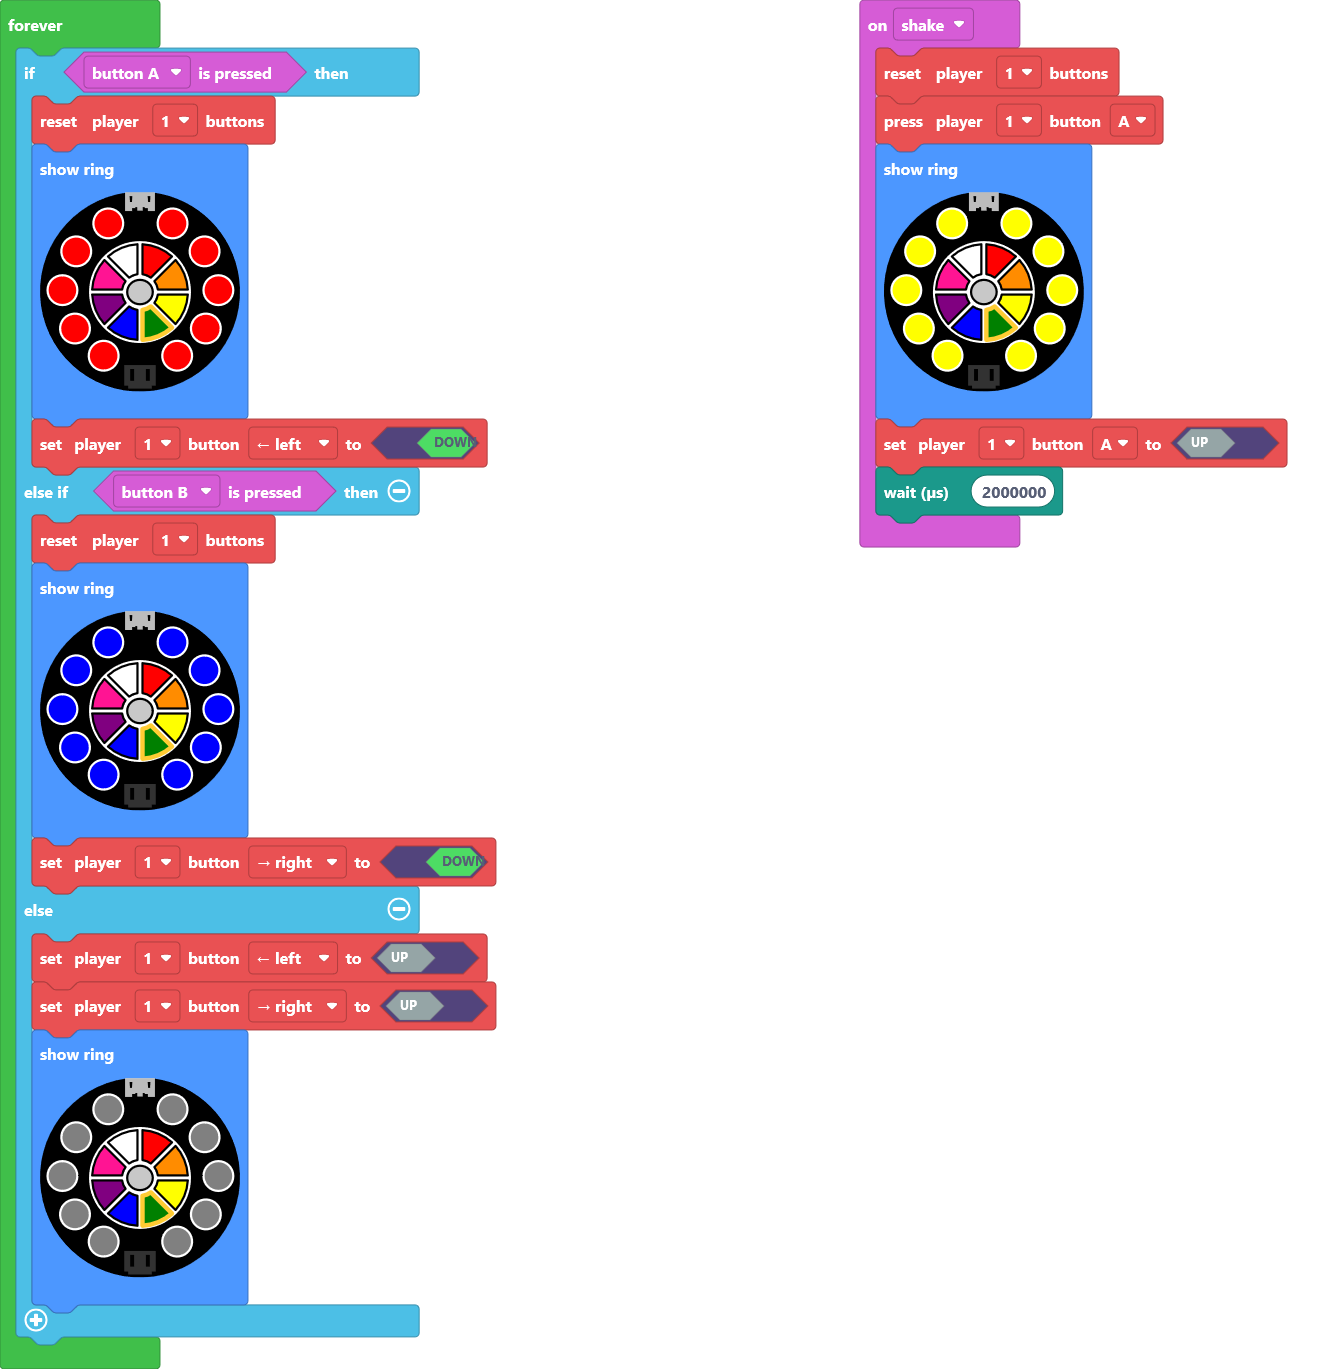
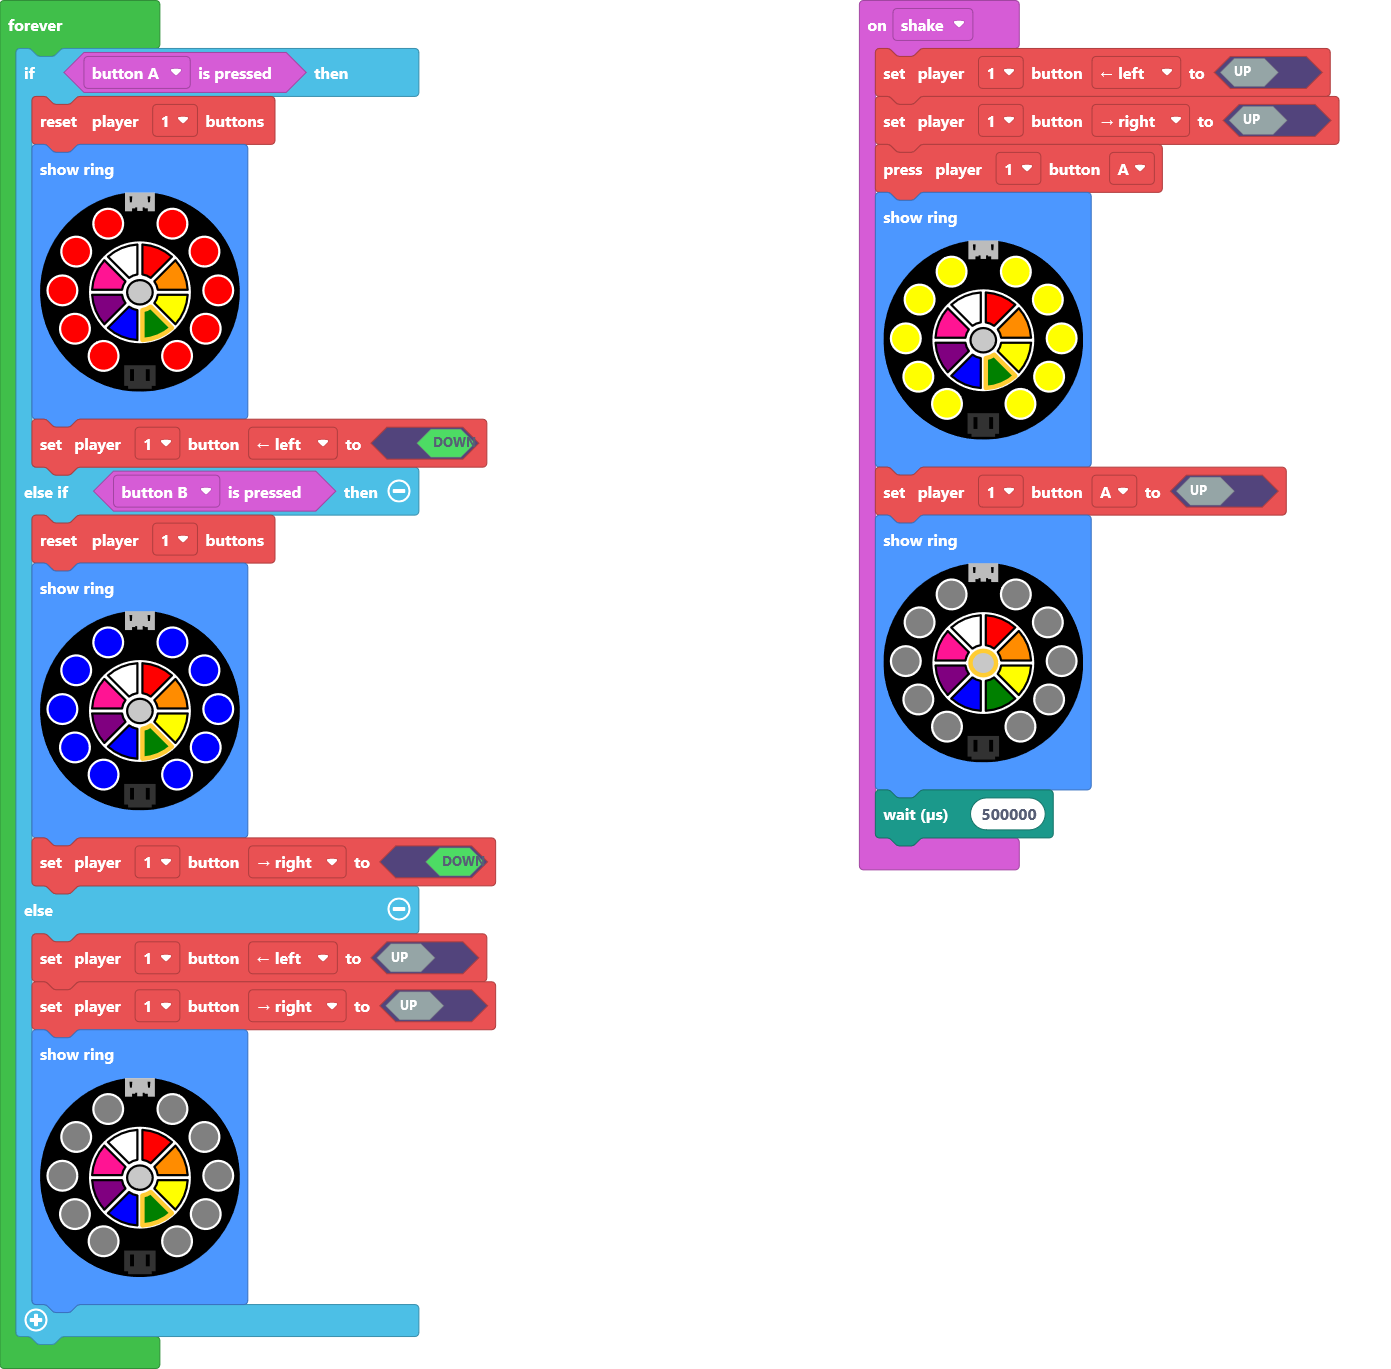
Update main.blocks, main.ts

diff --git a/main.ts b/main.ts
@@ -1,11 +1,15 @@
 input.onGesture(Gesture.Shake, function () {
-    makerController.player1.reset()
+    makerController.player1.setButton(ArcadeButton.Left, false)
+    makerController.player1.setButton(ArcadeButton.Right, false)
     makerController.player1.press(ArcadeButton.A)
     light.showRing(
     `yellow yellow yellow yellow yellow yellow yellow yellow yellow yellow`
     )
     makerController.player1.setButton(ArcadeButton.A, false)
-    control.waitMicros(2000000)
+    light.showRing(
+    `black black black black black black black black black black`
+    )
+    control.waitMicros(500000)
 })
 forever(function () {
     if (input.buttonA.isPressed()) {
